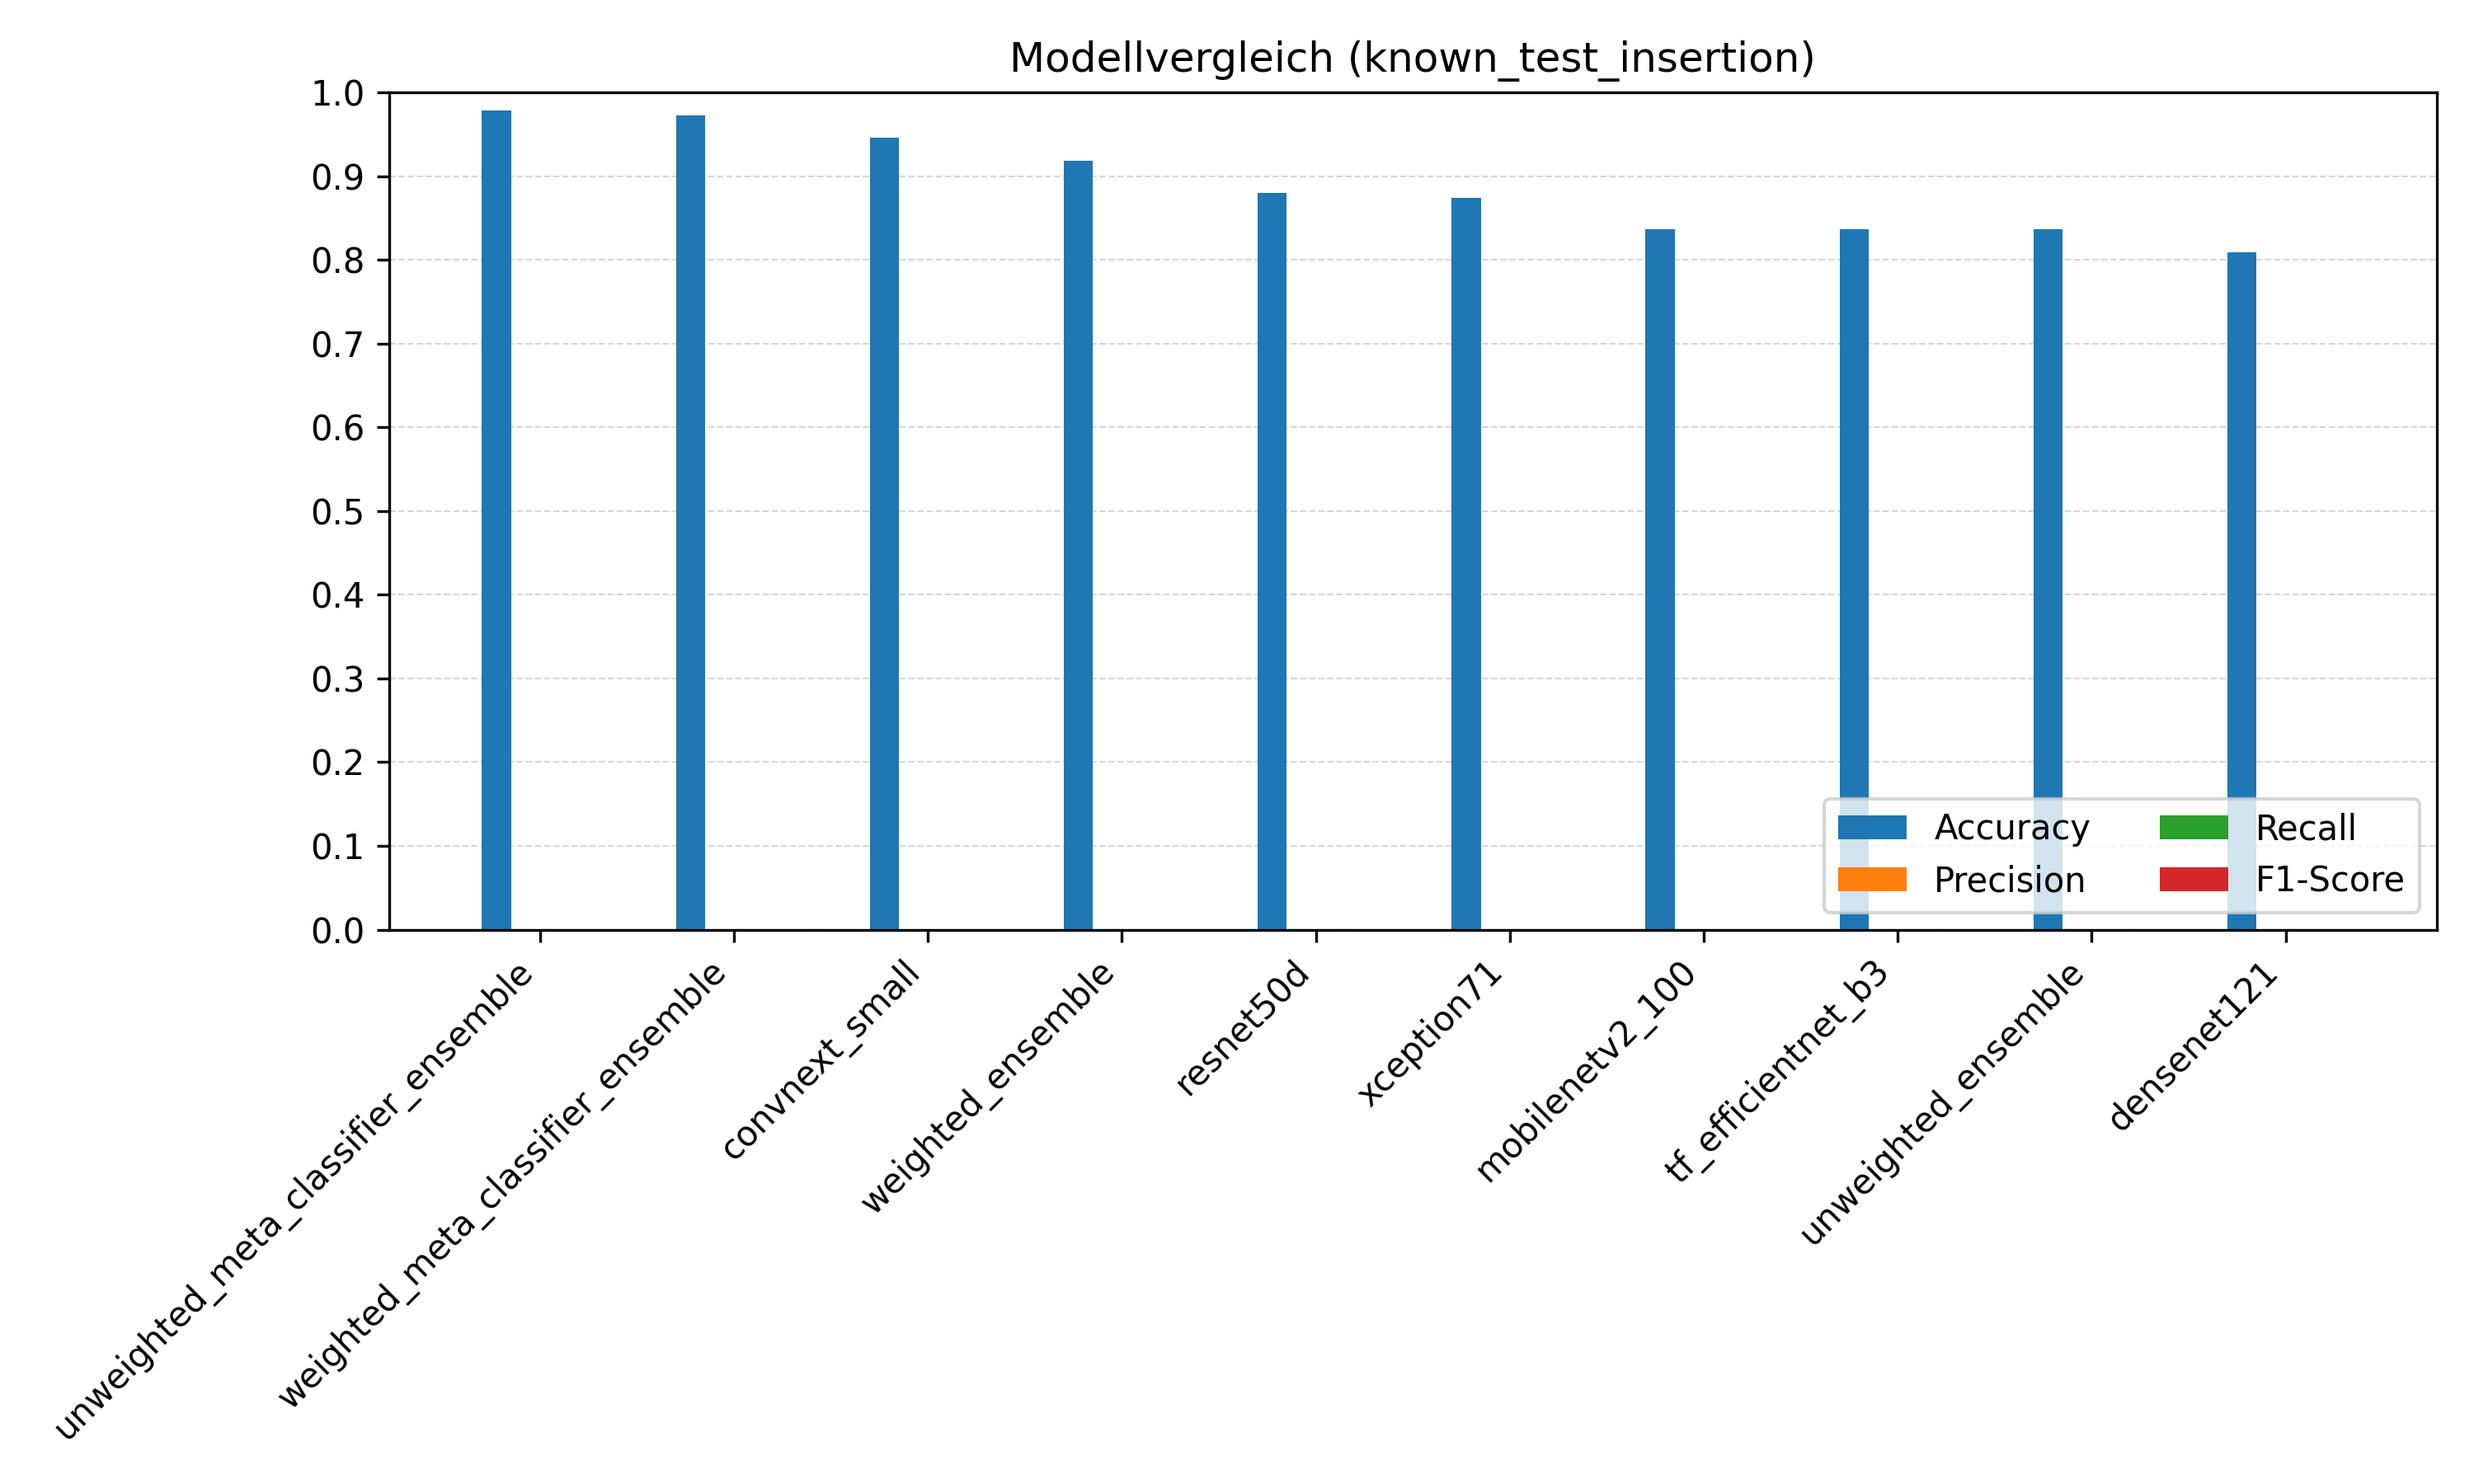
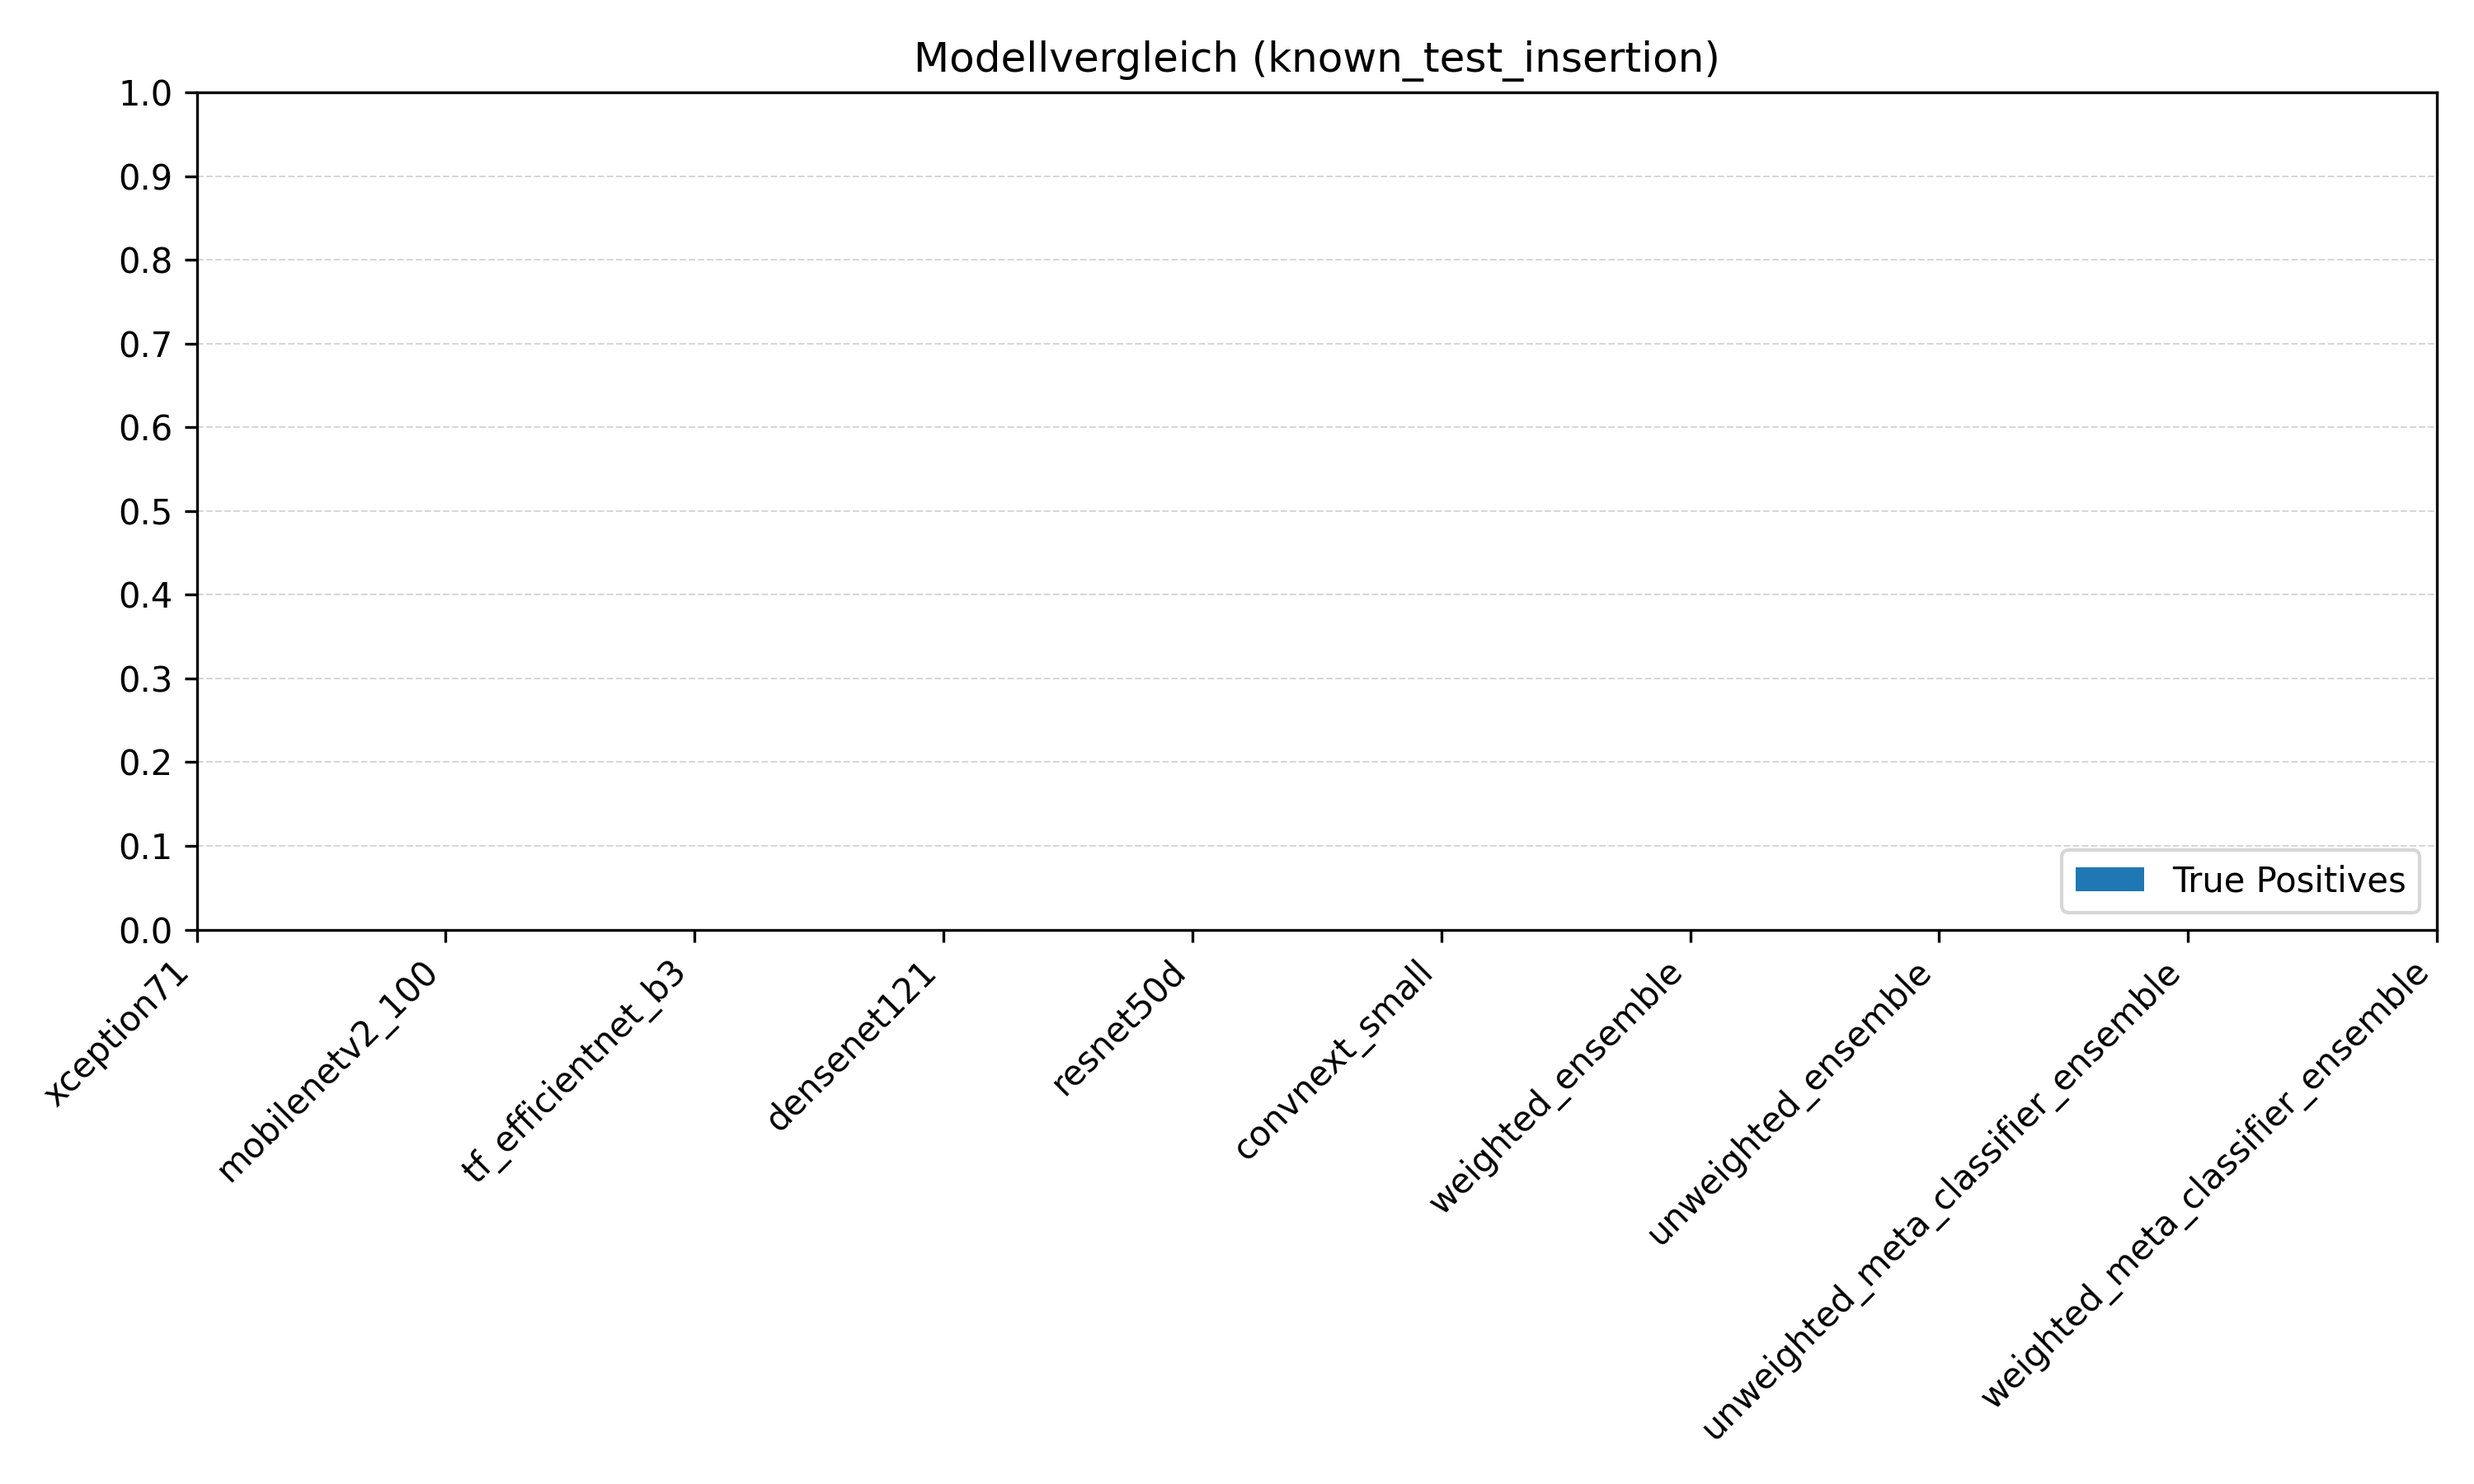
Update test plot generation for insertion variants
Modified get_result_plots.py to handle 'known_test_insertion' and 'unknown_test_insertion' variants differently by sorting and plotting based on true positives (TP) instead of accuracy and related metrics. Updated the plotting logic to reflect this change and added filtering to only process these variants. Updated corresponding plot images.

diff --git a/utils/get_result_plots.py b/utils/get_result_plots.py
@@ -99,6 +99,8 @@ def get_test_plots():
     os.makedirs(OUTPUT_DIR, exist_ok=True)
 
     for variante in TEST_VARIANTEN:
+        if variante not in ["known_test_insertion", "unknown_test_insertion"]:
+            continue
         # === Daten sammeln ===
         data = []
         for model in [*MODELS, "weighted_ensemble", "unweighted_ensemble", "unweighted_meta_classifier_ensemble", "weighted_meta_classifier_ensemble"]:
@@ -107,52 +109,85 @@ def get_test_plots():
             df = df.loc[df['TestVariante'] == variante]
             if df.empty:
                 continue
+            print(df.head())
             data.append({
                 "Model": model,
                 "Accuracy": df["Accuracy"].iloc[0],
                 "Precision": df["Precision"].iloc[0],
                 "Recall": df["Recall"].iloc[0],
                 "F1-Score": df["F1-Score"].iloc[0],
-                "ROC-AUC": df["ROC-AUC"].iloc[0]
+                "ROC-AUC": df["ROC-AUC"].iloc[0],
+                "TP": df["TP"].iloc[0]
             })
 
-        data = sorted(data, key=lambda x: x["Accuracy"], reverse=True)
+        if variante in ["known_test_insertion", "unknown_test_insertion"]:
+            data = sorted(data, key=lambda x: x["TP"], reverse=True)
+        else:
+            data = sorted(data, key=lambda x: x["Accuracy"], reverse=True)
 
         models = [d["Model"] for d in data]
-        accuracies = [d["Accuracy"] for d in data]
-        precisions = [d["Precision"] for d in data]
-        recalls = [d["Recall"] for d in data]
-        f1_scores = [d["F1-Score"] for d in data]
-        # roc_aucs = [d["ROC-AUC"] for d in data]
+        if variante in ["known_test_insertion", "unknown_test_insertion"]:
+            tp = [d["TP"] for d in data]
+        else:
+            accuracies = [d["Accuracy"] for d in data]
+            precisions = [d["Precision"] for d in data]
+            recalls = [d["Recall"] for d in data]
+            f1_scores = [d["F1-Score"] for d in data]
+            # roc_aucs = [d["ROC-AUC"] for d in data]
 
         # === Plot vorbereiten ===
-        x = np.arange(len(models))
-        width = 0.15
+        if variante in ["known_test_insertion", "unknown_test_insertion"]:
+            x = np.arange(len(models))
+            width = 0.5
 
-        fig, ax = plt.subplots(figsize=(10, 6))
+            fig, ax = plt.subplots(figsize=(10, 6))
 
-        ax.bar(x - 1.5 * width, accuracies, width, label="Accuracy")
-        ax.bar(x - 0.5 * width, precisions, width, label="Precision")
-        ax.bar(x + 0.5 * width, recalls, width, label="Recall")
-        ax.bar(x + 1.5 * width, f1_scores, width, label="F1-Score")
-        # ax.bar(x + 2.5 * width, roc_aucs, width, label="ROC-AUC")
+            ax.bar(width, tp, width, label="True Positives")
 
-        # === Achsen und Beschriftung ===
-        ax.set_title(f"Modellvergleich ({variante})")
-        ax.set_xticks(x)
-        ax.set_xticklabels(models, rotation=45, ha="right")
-        ax.set_ylim(0, 1.0)
-        ax.yaxis.set_major_locator(plt.MultipleLocator(0.1))
-        ax.grid(True, axis='y', linestyle='--', linewidth=0.5, alpha=0.5)
-        ax.set_axisbelow(True)  # Linien hinter die Balken
-        ax.legend(ncol=2, fontsize=10, loc="lower right")
-        plt.tight_layout()
+            # === Achsen und Beschriftung ===
+            ax.set_title(f"Modellvergleich ({variante})")
+            ax.set_xticks(x)
+            ax.set_xticklabels(models, rotation=45, ha="right")
+            ax.set_ylim(0, 1.0)
+            ax.yaxis.set_major_locator(plt.MultipleLocator(0.1))
+            ax.grid(True, axis='y', linestyle='--', linewidth=0.5, alpha=0.5)
+            ax.set_axisbelow(True)  # Linien hinter die Balken
+            ax.legend(ncol=2, fontsize=10, loc="lower right")
+            plt.tight_layout()
 
-        # === Speichern und Anzeigen ===
-        output_path = os.path.join(OUTPUT_DIR, f"{variante}_comparison.png")
-        plt.savefig(output_path, dpi=300)
-        plt.show()
-        print(f"✅ Vergleichsplot gespeichert unter: {output_path}")
+            # === Speichern und Anzeigen ===
+            output_path = os.path.join(OUTPUT_DIR, f"{variante}_comparison.png")
+            plt.savefig(output_path, dpi=300)
+            plt.show()
+            print(f"✅ Vergleichsplot gespeichert unter: {output_path}")
+        else:
+            x = np.arange(len(models))
+            width = 0.15
+
+            fig, ax = plt.subplots(figsize=(10, 6))
+
+            ax.bar(x - 1.5 * width, accuracies, width, label="Accuracy")
+            ax.bar(x - 0.5 * width, precisions, width, label="Precision")
+            ax.bar(x + 0.5 * width, recalls, width, label="Recall")
+            ax.bar(x + 1.5 * width, f1_scores, width, label="F1-Score")
+            # ax.bar(x + 2.5 * width, roc_aucs, width, label="ROC-AUC")
+
+            # === Achsen und Beschriftung ===
+            ax.set_title(f"Modellvergleich ({variante})")
+            ax.set_xticks(x)
+            ax.set_xticklabels(models, rotation=45, ha="right")
+            ax.set_ylim(0, 1.0)
+            ax.yaxis.set_major_locator(plt.MultipleLocator(0.1))
+            ax.grid(True, axis='y', linestyle='--', linewidth=0.5, alpha=0.5)
+            ax.set_axisbelow(True)  # Linien hinter die Balken
+            ax.legend(ncol=2, fontsize=10, loc="lower right")
+            plt.tight_layout()
+
+            # === Speichern und Anzeigen ===
+            output_path = os.path.join(OUTPUT_DIR, f"{variante}_comparison.png")
+            plt.savefig(output_path, dpi=300)
+            plt.show()
+            print(f"✅ Vergleichsplot gespeichert unter: {output_path}")
 
 OUTPUT_DIR = os.path.join(PROJECT_ROOT, "plots", "poster")
 LOG_DIR = os.path.join(PROJECT_ROOT, "logs", "test")
